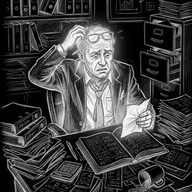
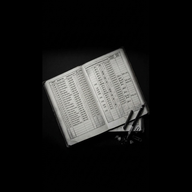
Add files via upload

diff --git a/index.html b/index.html
@@ -825,7 +825,6 @@ textarea#profileNotes{font-size:16px}
     <button type="button" id="moreNotes">Notes</button>
     <button type="button" id="morePlanner">Planner</button>
 <button type="button" id="moreInstall">Download app</button>
-    <button type="button" id="moreInstall">Download app</button>
 <button type="button" id="moreLogout">Log out</button>
   </div>
 </div>
@@ -1995,40 +1994,7 @@ $('#moreInstall').addEventListener('click', async () => {
 });
 refreshInstallBtn();
 /* ---------- install app (Chrome/Android prompt, Safari/iOS instructions) ---------- */
-let deferredInstall = null;
-const isStandalone = () =>
-  window.matchMedia('(display-mode: standalone)').matches || navigator.standalone === true;
-const isIOS = /iphone|ipad|ipod/i.test(navigator.userAgent) ||
-  (navigator.platform === 'MacIntel' && navigator.maxTouchPoints > 1);
 
-function refreshInstallBtn() {
-  const btn = $('#moreInstall');
-  btn.hidden = isStandalone();
-}
-window.addEventListener('beforeinstallprompt', e => {
-  e.preventDefault();
-  deferredInstall = e;
-  refreshInstallBtn();
-});
-window.addEventListener('appinstalled', () => {
-  deferredInstall = null;
-  refreshInstallBtn();
-  toast('Menya installed');
-});
-$('#moreInstall').addEventListener('click', async () => {
-  $('#profileMoreMenu').hidden = true;
-  if (deferredInstall) {
-    deferredInstall.prompt();
-    await deferredInstall.userChoice;
-    deferredInstall = null;
-    refreshInstallBtn();
-  } else if (isIOS) {
-  toast('Tap the Share icon, then "Add to Home Screen"');
-} else {
-  toast('Open the browser menu (⋮) and tap "Install app" or "Add to Home screen"');
-}
-});
-refreshInstallBtn();
 $('#moreLogout').addEventListener('click', async () => {
   $('#profileMoreMenu').hidden = true;
   await fbAuth.signOut();
